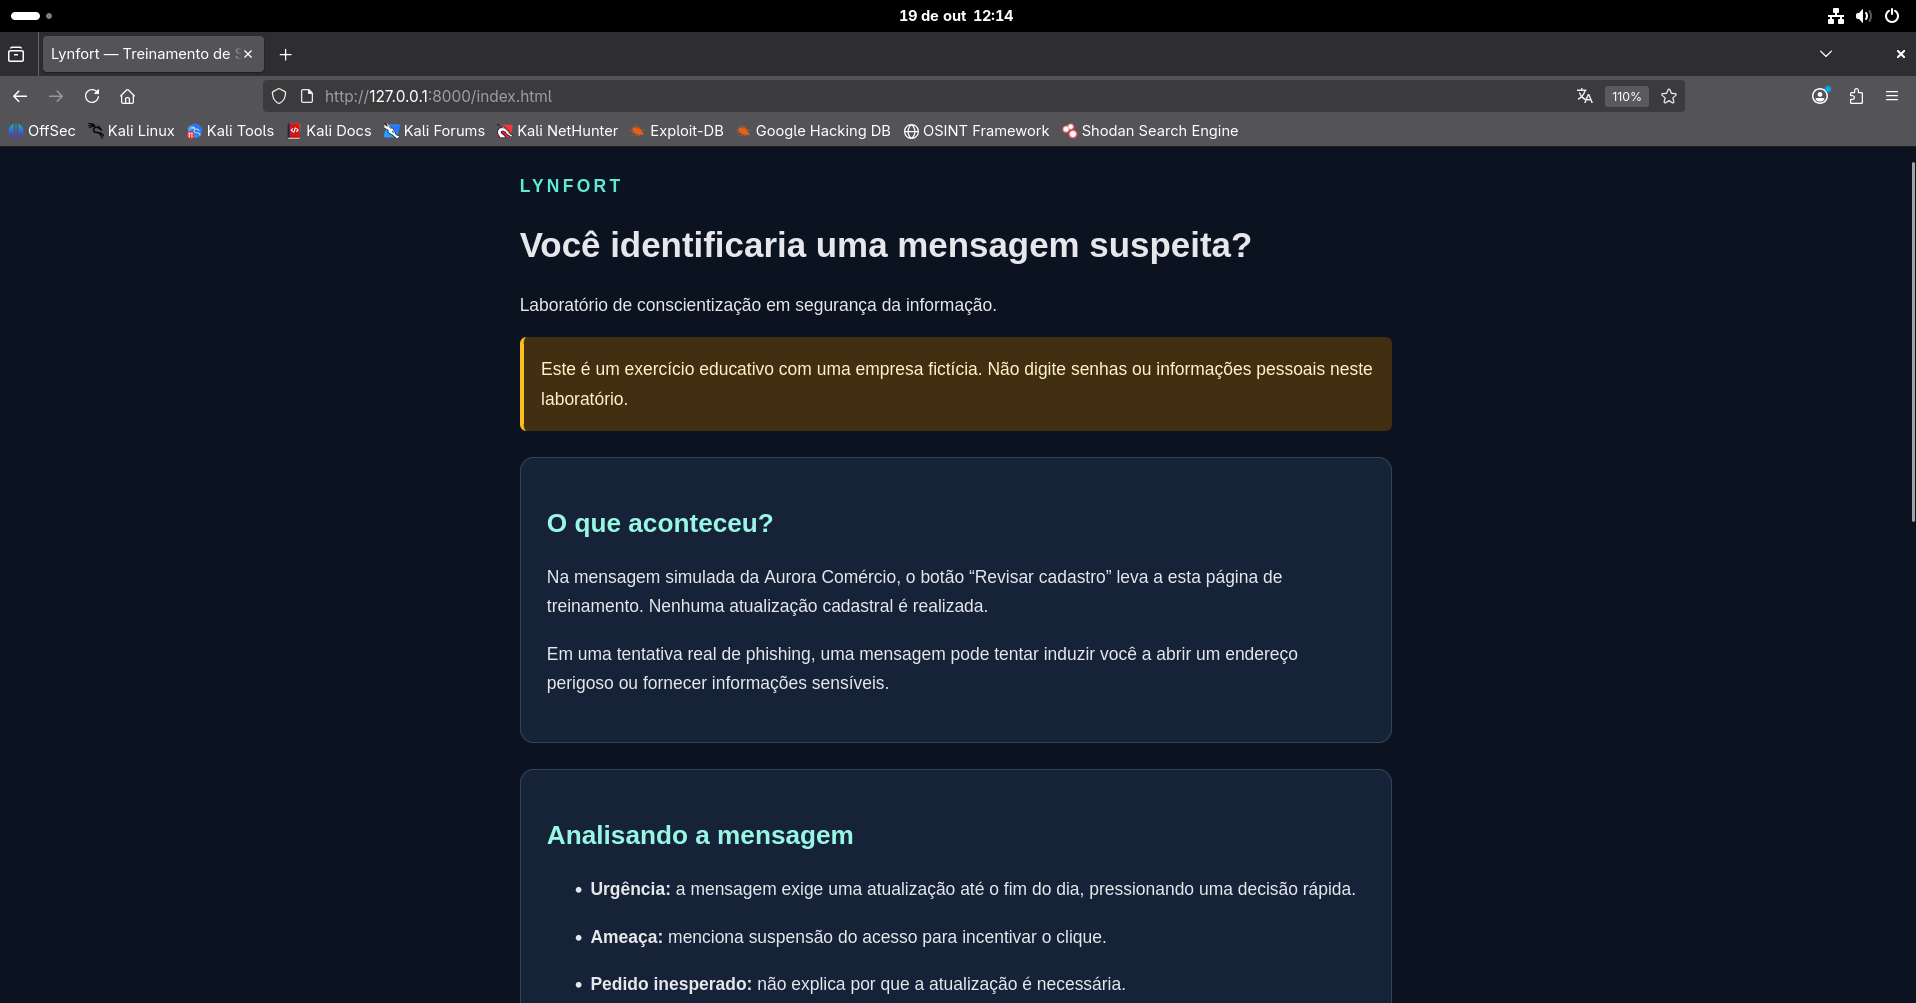
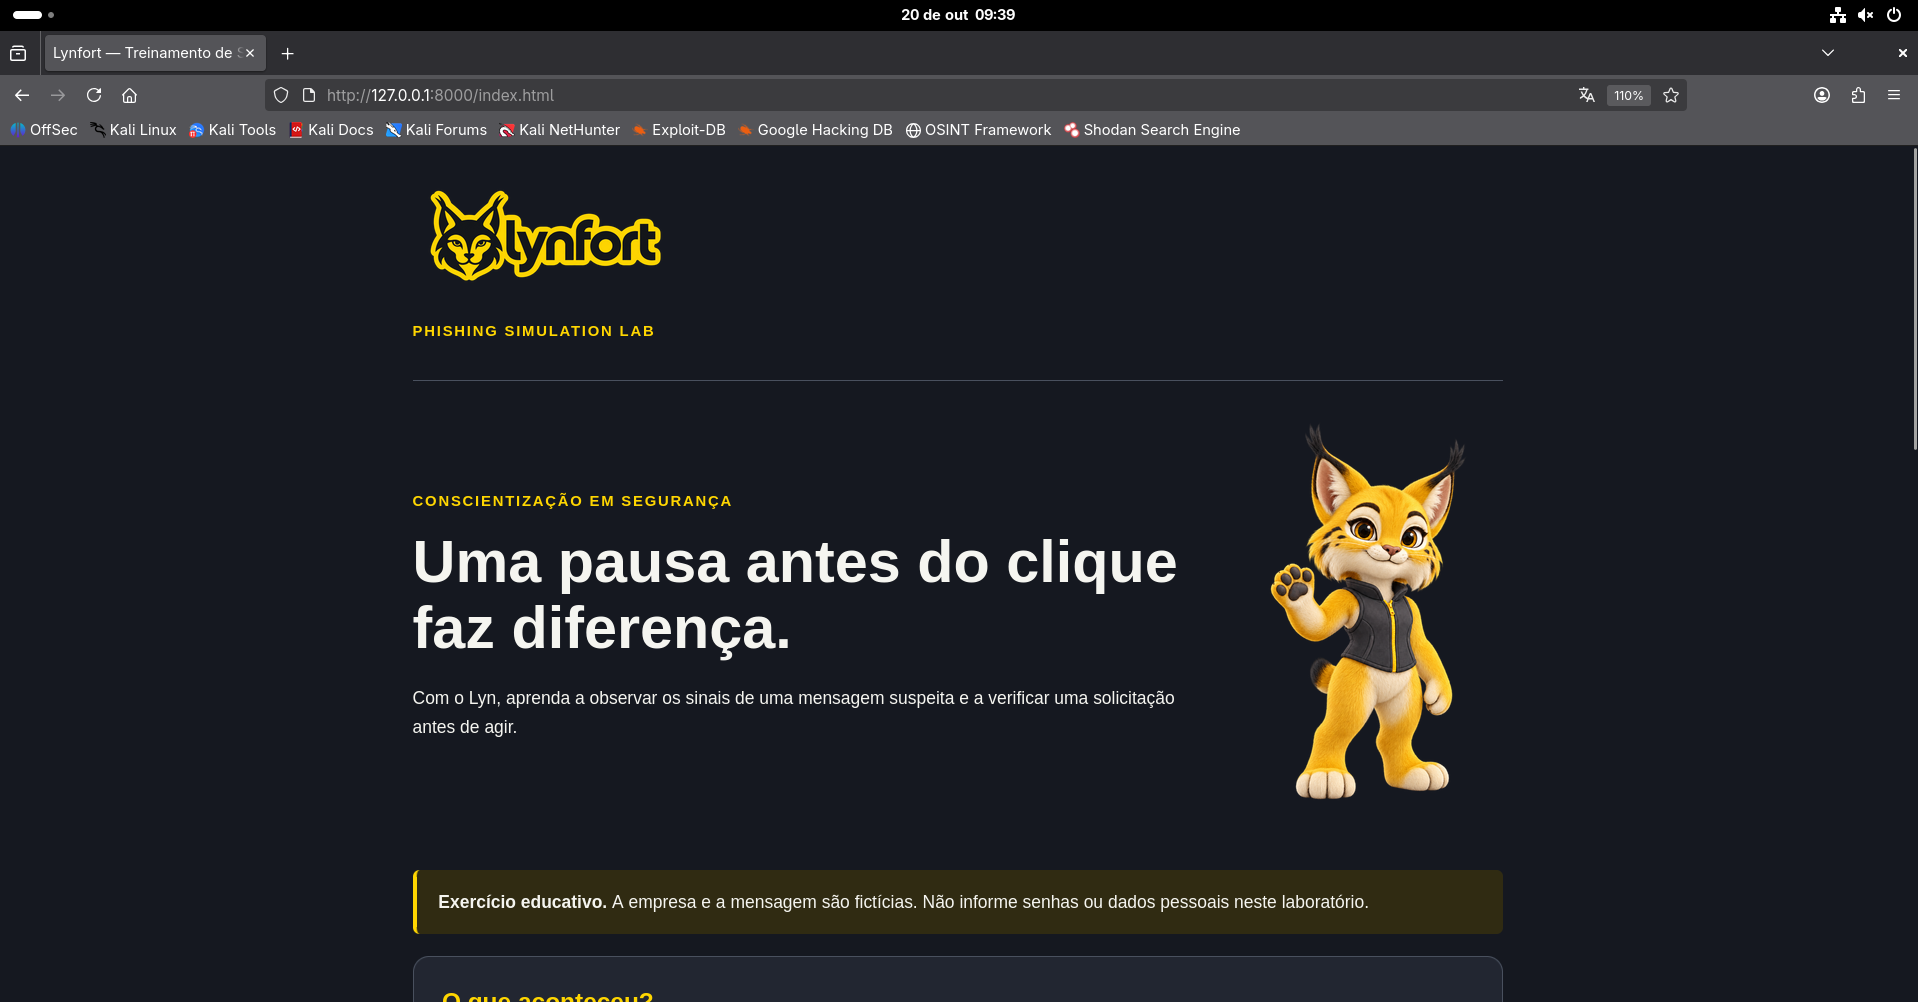
Aplica identidade visual da Lynfort e atualiza evidencias

diff --git a/lab/paginas/index.html b/lab/paginas/index.html
@@ -1,193 +1,36 @@
 <!DOCTYPE html>
 <html lang="pt-BR">
 <head>
-  <meta charset="UTF-8">
-  <meta name="viewport" content="width=device-width, initial-scale=1">
-  <title>Lynfort — Treinamento de Segurança</title>
-  <style>
-    * {
-      box-sizing: border-box;
-    }
-
-    body {
-      margin: 0;
-      padding: 32px 20px;
-      background: #0b1220;
-      color: #e5e7eb;
-      font-family: Arial, sans-serif;
-      line-height: 1.7;
-    }
-
-    main {
-      max-width: 800px;
-      margin: auto;
-    }
-
-    .marca {
-      color: #5eead4;
-      font-weight: bold;
-      letter-spacing: 3px;
-    }
-
-    h1 {
-      line-height: 1.2;
-    }
-
-    h2 {
-      color: #99f6e4;
-      line-height: 1.3;
-    }
-
-    section {
-      margin-top: 24px;
-      padding: 24px;
-      background: #152238;
-      border: 1px solid #334155;
-      border-radius: 12px;
-    }
-
-    .aviso {
-      padding: 16px;
-      color: #fef3c7;
-      background: #422f12;
-      border-left: 4px solid #fbbf24;
-      border-radius: 6px;
-    }
-
-    li {
-      margin-bottom: 16px;
-    }
-
-    a {
-      display: inline-block;
-      padding: 12px 20px;
-      color: #0b1220;
-      background: #5eead4;
-      border-radius: 6px;
-      font-weight: bold;
-      text-decoration: none;
-    }
-
-    a:hover {
-      text-decoration: underline;
-    }
-
-    a:focus-visible {
-      outline: 3px solid #fbbf24;
-      outline-offset: 4px;
-    }
-
-    footer {
-      margin-top: 28px;
-      color: #94a3b8;
-      font-size: 14px;
-    }
-  </style>
+<meta charset="UTF-8">
+<meta name="viewport" content="width=device-width, initial-scale=1">
+<title>Lynfort — Treinamento de Segurança</title>
+<style>
+:root{color-scheme:dark;--amarelo:#ffd600;--fundo:#151820;--texto:#f5f5f0;--cartao:#222631;--borda:#49505e}
+*{box-sizing:border-box}body{margin:0;background:var(--fundo);color:var(--texto);font-family:Arial,sans-serif;line-height:1.7}main{max-width:1040px;margin:auto;padding:24px 20px 48px}.logo{display:block;width:240px;max-width:100%;height:auto}header{border-bottom:1px solid var(--borda);padding-bottom:20px}.etiqueta{color:var(--amarelo);font-size:.85rem;font-weight:bold;letter-spacing:.12em;text-transform:uppercase}.abertura{display:grid;grid-template-columns:minmax(0,1fr) 240px;align-items:center;gap:28px;padding:36px 0}.mascote{display:block;width:100%;height:auto;max-height:360px;object-fit:contain}h1{font-size:clamp(2rem,5vw,3.4rem);line-height:1.12;margin:12px 0 20px}h2{font-size:1.4rem;line-height:1.3;margin-top:0;color:var(--amarelo)}section{padding:26px;margin-top:20px;border:1px solid var(--borda);border-radius:14px;background:var(--cartao)}.aviso{background:#302b12;border-left:4px solid var(--amarelo);padding:16px 20px;border-radius:6px}li{margin-bottom:14px}a{color:var(--amarelo)}.botao{display:inline-block;background:var(--amarelo);color:var(--fundo);font-weight:bold;padding:12px 20px;border-radius:8px;text-decoration:none}.botao:hover{text-decoration:underline}a:focus-visible{outline:3px solid white;outline-offset:5px}.pular{position:absolute;left:16px;top:-100px;background:var(--amarelo);color:var(--fundo);padding:10px}.pular:focus{top:16px}footer{margin-top:30px;color:#c2c7d0;font-size:.9rem}p,li{overflow-wrap:anywhere}@media(max-width:600px){.abertura{grid-template-columns:1fr;gap:12px}.mascote{max-height:220px}.logo{width:200px}section{padding:20px}ul,ol{padding-left:22px}}
+</style>
 </head>
 <body>
-  <main>
-    <header>
-      <p class="marca">LYNFORT</p>
-      <h1>Você identificaria uma mensagem suspeita?</h1>
-      <p>Laboratório de conscientização em segurança da informação.</p>
-    </header>
-
-    <p class="aviso">
-      Este é um exercício educativo com uma empresa fictícia.
-      Não digite senhas ou informações pessoais neste laboratório.
-    </p>
-
-    <section>
-      <h2>O que aconteceu?</h2>
-      <p>
-        Na mensagem simulada da Aurora Comércio, o botão
-        “Revisar cadastro” leva a esta página de treinamento.
-        Nenhuma atualização cadastral é realizada.
-      </p>
-      <p>
-        Em uma tentativa real de phishing, uma mensagem pode
-        tentar induzir você a abrir um endereço perigoso ou
-        fornecer informações sensíveis.
-      </p>
-    </section>
-
-    <section>
-      <h2>Analisando a mensagem</h2>
-      <ul>
-        <li>
-          <strong>Urgência:</strong> a mensagem exige uma
-          atualização até o fim do dia, pressionando uma
-          decisão rápida.
-        </li>
-        <li>
-          <strong>Ameaça:</strong> menciona suspensão do
-          acesso para incentivar o clique.
-        </li>
-        <li>
-          <strong>Pedido inesperado:</strong> não explica
-          por que a atualização é necessária.
-        </li>
-        <li>
-          <strong>Remetente:</strong> o nome “Suporte” não
-          comprova a origem. Confira o endereço completo
-          e confirme a solicitação por um canal conhecido.
-        </li>
-        <li>
-          <strong>Destino do link:</strong> o texto do botão
-          não garante para onde ele leva. Verifique o endereço
-          antes de abrir.
-        </li>
-      </ul>
-      <p>
-        Esses sinais pedem atenção. Eles não comprovam,
-        isoladamente, que uma mensagem seja maliciosa.
-      </p>
-      <p>
-        O domínio aurora.example foi escolhido para representar
-        uma empresa fictícia neste exercício.
-      </p>
-    </section>
-
-    <section>
-      <h2>O que fazer em uma situação real?</h2>
-      <ol>
-        <li>
-          Evite agir sob pressão ou fornecer informações
-          por causa de uma mensagem inesperada.
-        </li>
-        <li>
-          Acesse o serviço pelo endereço oficial que você
-          já conhece.
-        </li>
-        <li>
-          Confirme a solicitação com a equipe responsável
-          por um canal conhecido.
-        </li>
-        <li>
-          Utilize o canal de denúncia definido pela organização.
-        </li>
-      </ol>
-    </section>
-
-    <section>
-      <h2>Revise o exemplo</h2>
-      <p>
-        Volte à mensagem e procure os sinais apresentados
-        neste treinamento.
-      </p>
-      <a href="mensagem.html">Voltar à mensagem simulada</a>
-    </section>
-
-    <footer>
-      <p>
-        Lynfort — Phishing Simulation Lab.
-        Ambiente fictício de treinamento.
-      </p>
-      <p>
-        Esta versão não possui formulário, rastreamento
-        de cliques ou envio de e-mails.
-      </p>
-    </footer>
-  </main>
+<a class="pular" href="#conteudo">Pular para o conteúdo</a>
+<main>
+<header><img class="logo" src="assets/imagens/logo-lynfort.png" alt="Lynfort"><p class="etiqueta">Phishing Simulation Lab</p></header>
+<div id="conteudo" tabindex="-1">
+<div class="abertura">
+<div><p class="etiqueta">Conscientização em segurança</p><h1>Uma pausa antes do clique faz diferença.</h1><p>Com o Lyn, aprenda a observar os sinais de uma mensagem suspeita e a verificar uma solicitação antes de agir.</p></div>
+<img class="mascote" src="assets/imagens/lyn-mascote.png" alt="Lyn, o mascote lince amarelo da Lynfort, acenando">
+</div>
+<p class="aviso"><strong>Exercício educativo.</strong> A empresa e a mensagem são fictícias. Não informe senhas ou dados pessoais neste laboratório.</p>
+<section aria-labelledby="aconteceu"><h2 id="aconteceu">O que aconteceu?</h2><p>Na mensagem simulada da Aurora Comércio, o botão “Revisar cadastro” leva a esta página de treinamento. Nenhuma atualização cadastral é realizada.</p><p>Em uma tentativa real de phishing, uma mensagem pode induzir você a abrir um endereço perigoso ou fornecer informações sensíveis.</p></section>
+<section aria-labelledby="sinais"><h2 id="sinais">Observe os sinais da mensagem</h2><ul>
+<li><strong>Urgência:</strong> a atualização é exigida até o fim do dia, pressionando uma decisão rápida.</li>
+<li><strong>Ameaça:</strong> a mensagem menciona suspensão do acesso para incentivar o clique.</li>
+<li><strong>Pedido inesperado:</strong> não explica por que a atualização é necessária.</li>
+<li><strong>Remetente:</strong> o nome “Suporte” não comprova a origem. Confira o endereço completo e confirme a solicitação por um canal conhecido.</li>
+<li><strong>Destino do link:</strong> o texto do botão não garante para onde ele leva. Verifique o endereço antes de abrir.</li>
+</ul><p>Esses sinais pedem atenção. Isoladamente, não comprovam que uma mensagem seja maliciosa.</p><p>O domínio aurora.example representa uma empresa fictícia neste exercício.</p></section>
+<section aria-labelledby="agir"><h2 id="agir">O que fazer em uma situação real?</h2><ol><li>Evite agir sob pressão ou fornecer informações por causa de uma mensagem inesperada.</li><li>Acesse o serviço pelo endereço oficial que você já conhece.</li><li>Confirme a solicitação com a equipe responsável por um canal conhecido.</li><li>Utilize o canal de denúncia definido pela organização.</li></ol></section>
+<section aria-labelledby="revisar"><h2 id="revisar">Agora observe novamente</h2><p>Volte à mensagem e procure os sinais apresentados neste treinamento.</p><a class="botao" href="mensagem.html">Voltar à mensagem simulada</a></section>
+</div>
+<footer><p>Lynfort — Phishing Simulation Lab · Projeto educacional de portfólio.</p><p>Esta versão não possui formulário, rastreamento de cliques ou envio de e-mails.</p></footer>
+</main>
 </body>
 </html>
